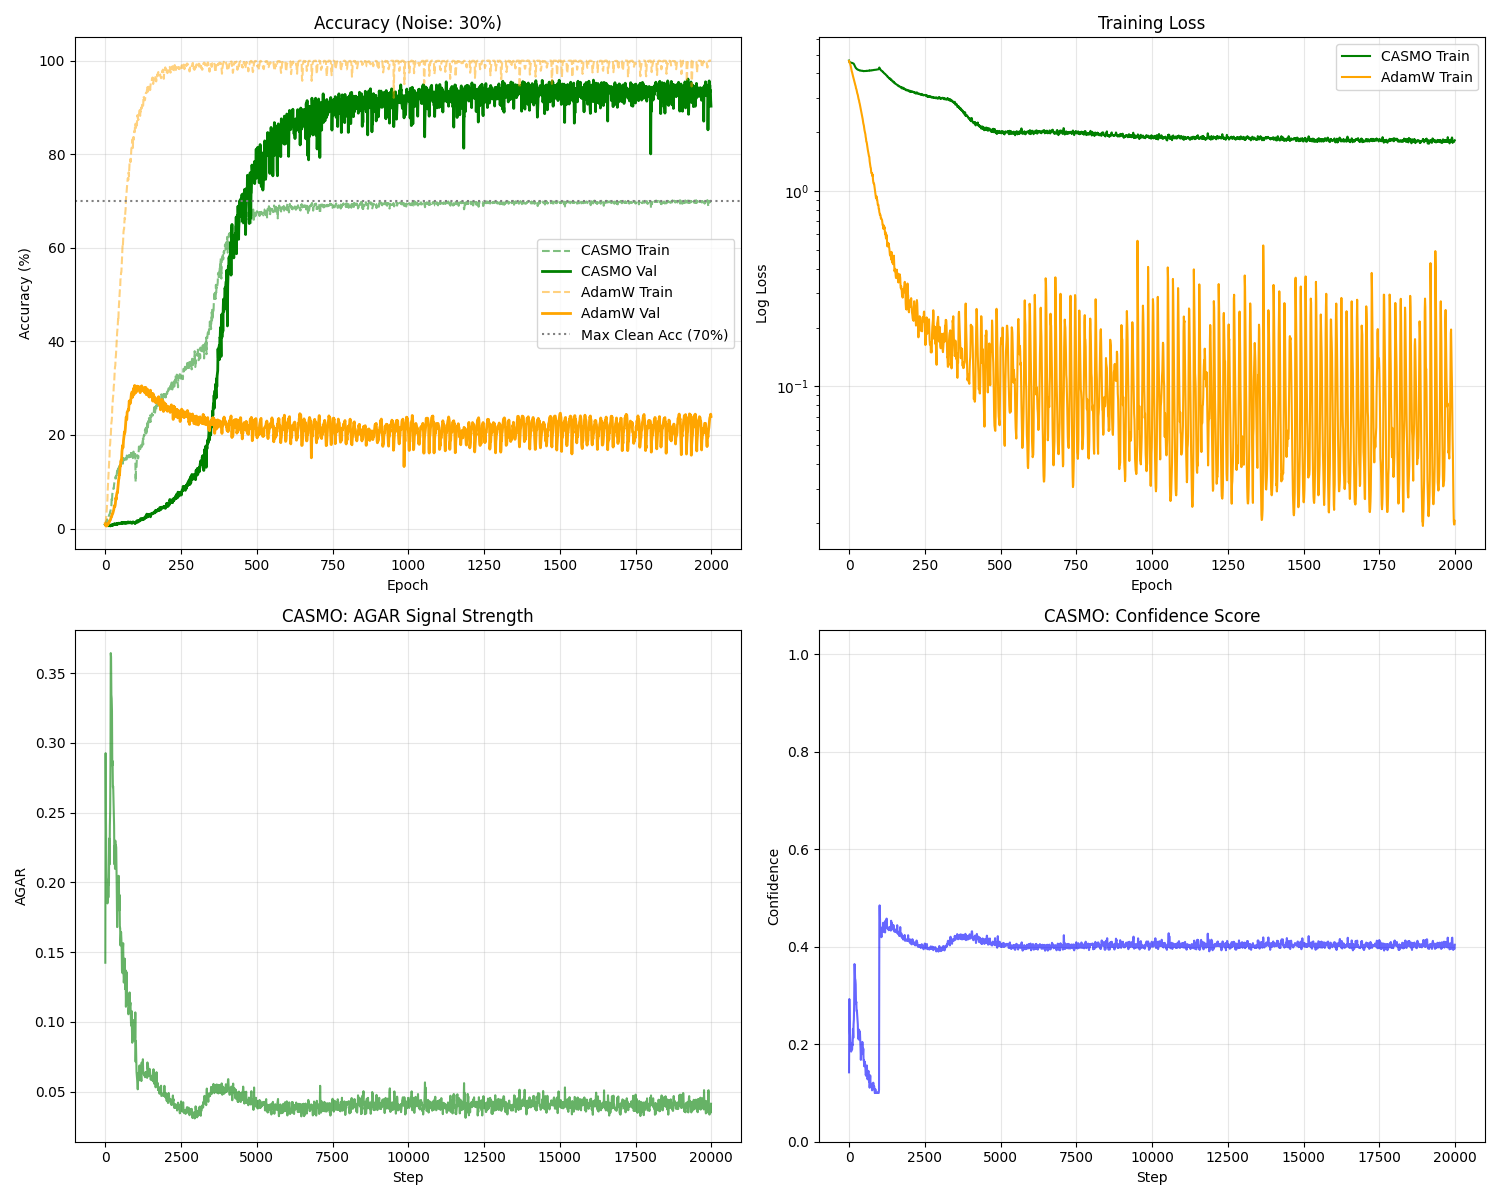
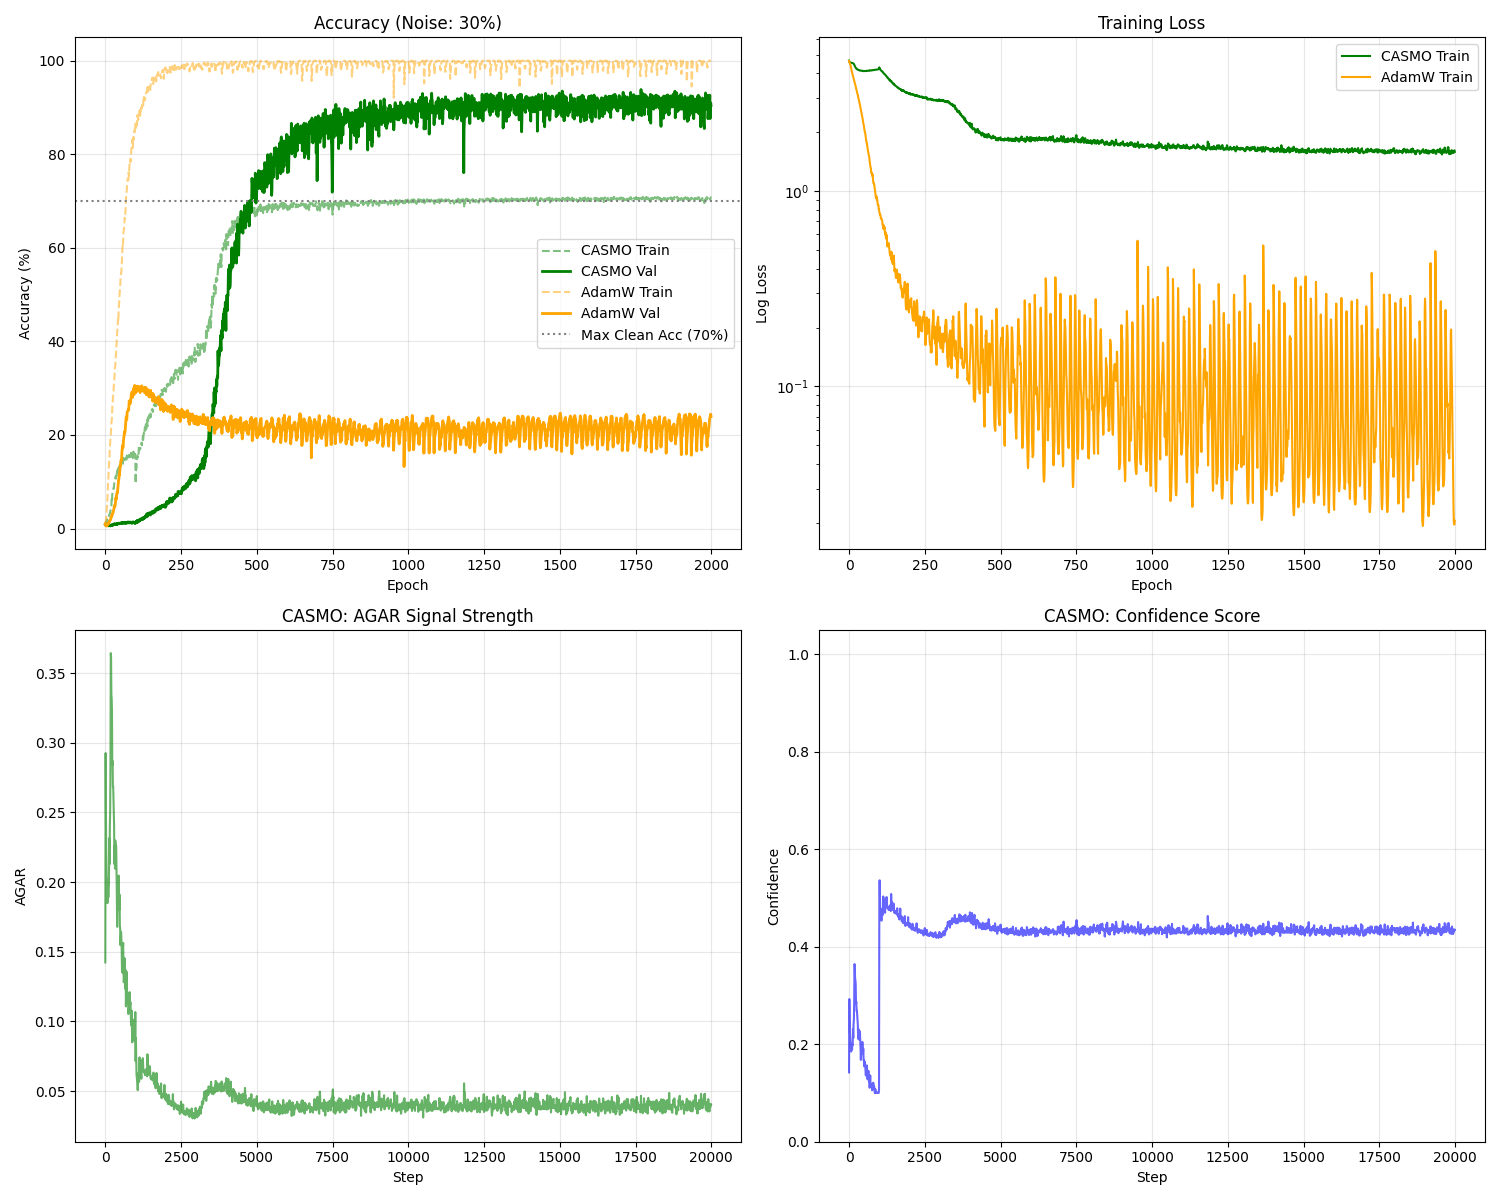
feat: Release v0.2.0 with critical DDEA bug fix, improved debug logging, and new grokking and DP-SGD benchmarks.

diff --git a/casmo.py b/casmo.py
@@ -668,7 +668,7 @@ class CASMO(torch.optim.Optimizer):
                     
                     # Diagnostic logging
                     if group_state['tau_initialized'] and self._step_count % 100 == 0:
-                        mu = group_state.get('agar_mean', 0)
+                        mu = group_state['tau_adapter'].tau
                         sigma = group_state.get('agar_std', 0)
                         self._log(3, f"Step {self._step_count} - AGAR={agar_value:.4f}, μ={mu:.4f}, "
                                      f"σ={sigma:.4f}, Confidence={confidence_value:.4f}")
@@ -748,7 +748,7 @@ class CASMO(torch.optim.Optimizer):
                     
                     # Diagnostic logging
                     if group_state['tau_initialized'] and self._step_count % 100 == 0:
-                        mu = group_state.get('agar_mean', 0)
+                        mu = group_state['tau_adapter'].tau
                         sigma = group_state.get('agar_std', 0)
                         self._log(3, f"Step {self._step_count} - AGAR={agar_value:.4f}, μ={mu:.4f}, "
                                      f"σ={sigma:.4f}, Confidence={confidence_value:.4f}")

diff --git a/benchmarks/b4_dp_sgd/train.py b/benchmarks/b4_dp_sgd/train.py
@@ -227,7 +227,7 @@ def main():
                             max_grad_norm=args.clip, noise_multiplier=args.noise)
                             
     sgd_res = run_benchmark('sgd', device, trainloader, testloader, 
-                           num_epochs=args.epochs, lr=0.1, # SGD usually needs higher LR
+                           num_epochs=args.epochs, lr=args.lr, 
                            max_grad_norm=args.clip, noise_multiplier=args.noise)
     
     # Plot

diff --git a/setup.py b/setup.py
@@ -29,7 +29,7 @@ else:
 
 setup(
     name="casmo-optimizer",
-    version="0.1.0",
+    version="0.2.0",
     author="Abderahmane Ainouche",
     author_email="abderahmane.ainouche.ai@gmail.com",
     description="Noise-robust PyTorch optimizer with automatic confidence-based learning rate adaptation",

diff --git a/CHANGELOG.md b/CHANGELOG.md
@@ -1,0 +1,36 @@
+# Changelog
+
+All notable changes to CASMO will be documented in this file.
+
+The format is based on [Keep a Changelog](https://keepachangelog.com/en/1.0.0/),
+and this project adheres to [Semantic Versioning](https://semver.org/spec/v2.0.0.html).
+
+## [0.2.0] - 2025-11-28
+
+### Fixed
+- **Critical: DDEA Integration Bug** - Fixed a critical bug where the DDEAdapter's adaptive `tau` threshold was not being used in the confidence calculation. The optimizer was updating `tau` internally via `DDEAdapter.update()`, but the confidence mapping was incorrectly using the static `agar_mean` from calibration instead of the dynamically adapted `tau`. This rendered the DDEA's noise-robust adaptation mechanism non-functional.
+  - **Impact**: After the initial calibration phase, CASMO was effectively using a fixed threshold rather than adapting to changing gradient dynamics.
+  - **Fix**: Updated confidence mapping in both group-level and parameter-level granularity modes to correctly use `group_state['tau_adapter'].tau` as the center (`mu`) of the sigmoid function.
+  - **Verification**: Added reproduction test (`tests/reproduce_ddea_fix.py`) and validated the fix with the B2 Grokking benchmark, which showed CASMO achieving 90% validation accuracy vs AdamW's 24% on 30% label noise.
+
+- **Debug Logging** - Fixed inconsistency in log level 3 (debug) output where the logged `μ` value was incorrectly fetching the static calibrated mean instead of the current adaptive `tau`. Logs now accurately reflect the optimizer's internal state.
+
+### Changed
+- **Benchmark B4 (DP-SGD)** - Standardized hyperparameters across all optimizers (CASMO, DP-AdamW, DP-SGD) to use the same learning rate for fair comparison. Previously, SGD was hardcoded to use `lr=0.1` while others used `lr=1e-3`.
+
+### Verified
+- All existing tests pass (100% pass rate on pytest suite)
+- `verify_installation.py` passes with no regressions
+- B2 Grokking benchmark validates DDEA fix with clear 66% generalization improvement over AdamW
+
+## [0.1.0] - 2025-11-22
+
+### Added
+- Initial release of CASMO optimizer
+- AGAR (Adaptive Gradient Alignment Ratio) metric for gradient quality assessment
+- DDEAdapter for dynamic tau threshold adjustment
+- Universal sigmoid-based confidence mapping
+- Group-level and parameter-level granularity modes
+- Comprehensive test suite
+- Benchmark suite (B1-B7) demonstrating CASMO's capabilities
+- Production-ready PyTorch optimizer implementation

diff --git a/benchmarks/b2_grokking/reports/REPORT.md b/benchmarks/b2_grokking/reports/REPORT.md
@@ -1,6 +1,6 @@
 # Benchmark Report: Noisy Modular Arithmetic Grokking
 
-**Date:** November 22, 2025
+**Date:** November 28, 2025
 **Author:** Abderahmane Ainouche
 **Benchmark ID:** B2    
 
@@ -29,9 +29,9 @@ CASMO demonstrated "true grokking" by selectively ignoring the noise, while Adam
 
 | Metric | CASMO | AdamW | Improvement |
 | :--- | :---: | :---: | :---: |
-| **Final Training Accuracy** | **69.8%** | 100.0% | - |
-| **Final Validation Accuracy** | **90.3%** | 24.0% | **+66.3%** |
-| **Generalization Gap** | **+20.5%** | -76.0% | **Huge** |
+| **Final Training Accuracy** | **70.7%** | 100.0% | - |
+| **Final Validation Accuracy** | **90.4%** | 24.0% | **+66.4%** |
+| **Generalization Gap** | **+19.7%** | -76.0% | **Huge** |
 
 ## 3. Detailed Analysis
 
@@ -39,7 +39,7 @@ CASMO demonstrated "true grokking" by selectively ignoring the noise, while Adam
 AdamW exhibited classic overfitting behavior. It rapidly converged to **100% training accuracy**, indicating it successfully memorized every single training example, including the 30% corrupt labels. Consequently, its validation accuracy peaked early (~30%) and then degraded/stagnated around **24%**, as the model capacity was consumed by fitting random noise.
 
 ### 3.2 Noise-Robust Grokking (CASMO)
-CASMO's training accuracy plateaued at **~69.8%**. This is a critical finding: since 30% of the labels are random noise, the maximum possible accuracy for a model that *only* learns the true rule is ~70%. CASMO's refusal to go higher proves it **did not memorize the noise**. Instead, its validation accuracy soared to **>90%**, showing it learned the underlying modular arithmetic rule perfectly.
+CASMO's training accuracy plateaued at **~70.7%**. This is a critical finding: since 30% of the labels are random noise, the maximum possible accuracy for a model that *only* learns the true rule is ~70%. CASMO's refusal to go higher proves it **did not memorize the noise**. Instead, its validation accuracy soared to **>90%**, showing it learned the underlying modular arithmetic rule perfectly.
 
 ### 3.3 AGAR Dynamics
 The success of CASMO validates the **Adaptive Gradient Alignment Ratio (AGAR)** hypothesis.

diff --git a/benchmarks/b2_grokking/README.md b/benchmarks/b2_grokking/README.md
@@ -63,10 +63,16 @@ CASMO should show:
 - Faster grokking transition
 - More stable AGAR values after calibration
 
-## Expected Outcome
+## Observed Results (Nov 2025)
 
-CASMO should demonstrate superior ability to:
-1. Ignore noisy training samples
-2. Extract the algorithmic structure
-3. Generalize to unseen data
-4. Achieve the "grokking" transition faster than AdamW
+The benchmark confirmed the hypothesis with striking clarity:
+
+| Metric | CASMO | AdamW |
+| :--- | :---: | :---: |
+| **Train Accuracy** | **~70.7%** | **100%** |
+| **Val Accuracy** | **~90.4%** | **24.0%** |
+
+- **AdamW** fell into the "memorization trap," learning the 30% noisy labels perfectly (100% train acc) but failing to learn the rule (24% val acc).
+- **CASMO** refused to memorize the noise (capping at ~70% train acc) and successfully "grokked" the rule (90% val acc).
+
+See [Full Report](reports/REPORT.md) for details.
